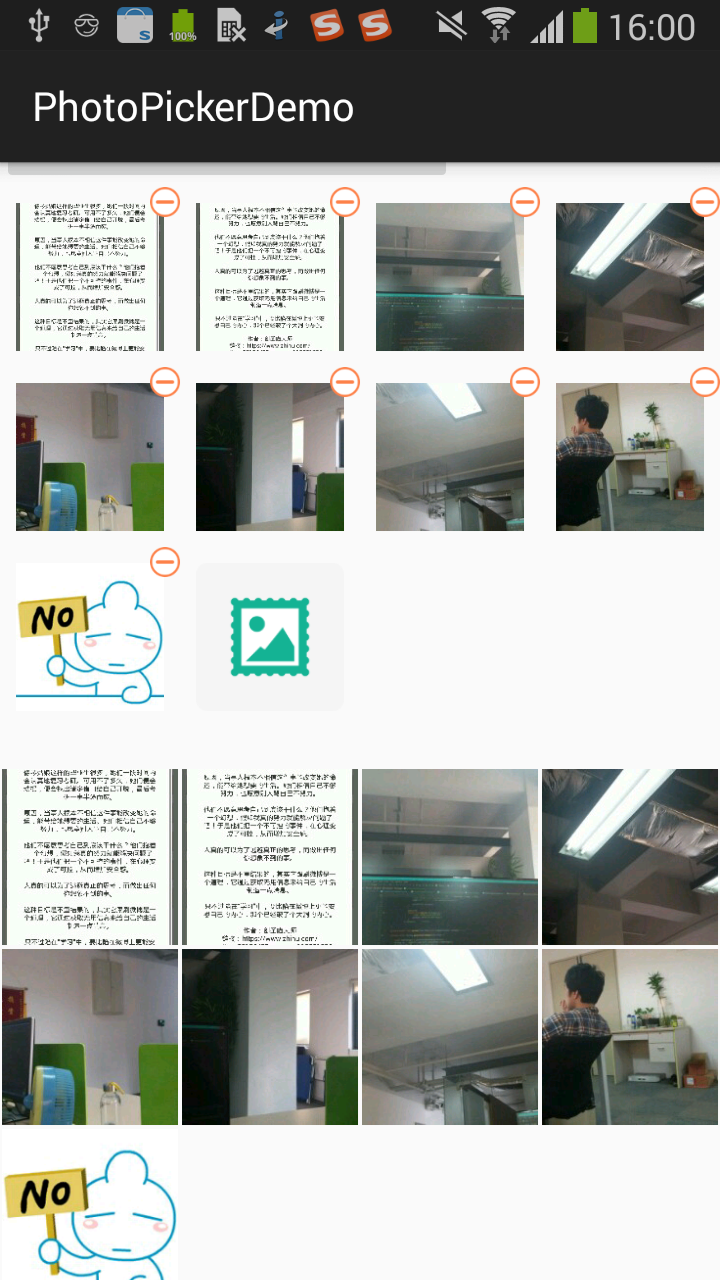
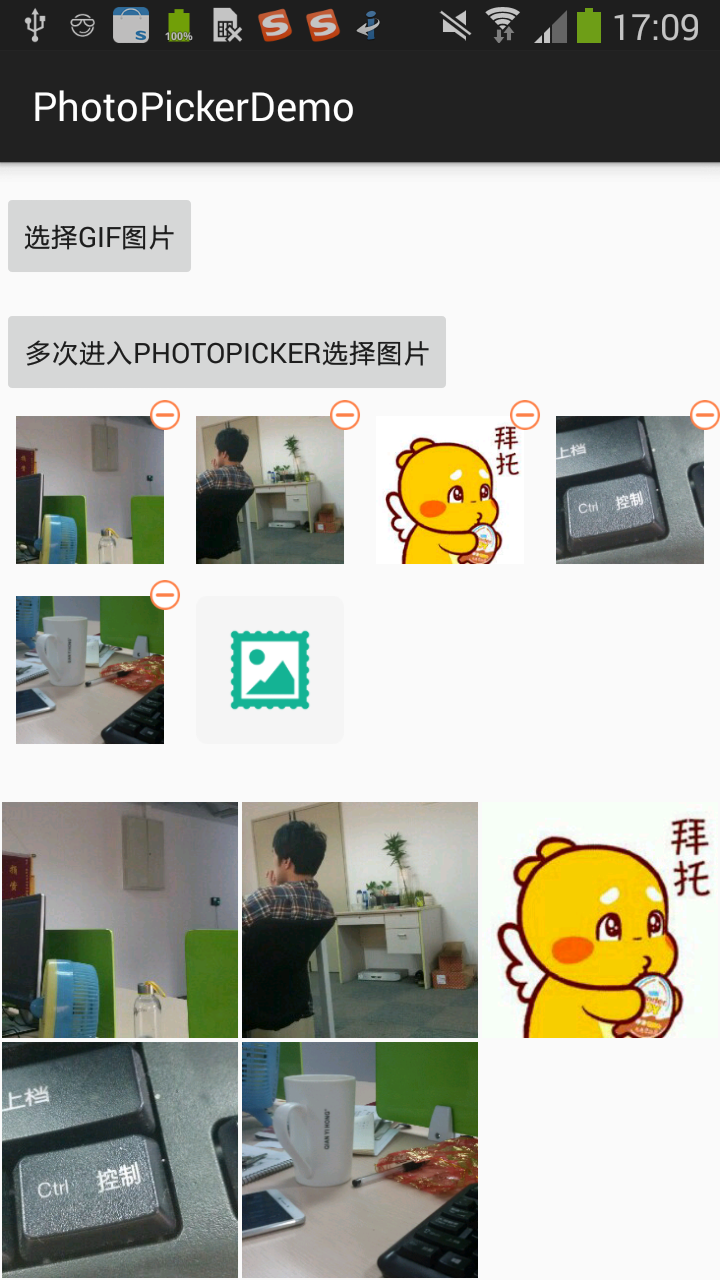
bug fix and change showview to 3 column

diff --git a/PhotoPicker/src/main/java/me/iwf/photopicker/widget/PhotoAdapter.java b/PhotoPicker/src/main/java/me/iwf/photopicker/widget/PhotoAdapter.java
@@ -116,6 +116,7 @@ public class PhotoAdapter extends RecyclerView.Adapter<PhotoAdapter.PhotoViewHol
                 .load(uri)
                 .centerCrop()
                 .thumbnail(0.1f)
+               // .bitmapTransform(new RoundedCornersTransformation(mContext,6,0))
                 .placeholder(R.drawable.__picker_default_weixin)
                 .error(R.drawable.__picker_ic_broken_image_black_48dp)
                 .into(holder.ivPhoto);
@@ -149,6 +150,7 @@ public class PhotoAdapter extends RecyclerView.Adapter<PhotoAdapter.PhotoViewHol
               .load(photoPaths.get(position))
                       .centerCrop()
                       .thumbnail(0.1f)
+                     // .bitmapTransform(new RoundedCornersTransformation(mContext,4,0))
               .placeholder(R.drawable.__picker_default_weixin)
               .error(R.drawable.__picker_ic_broken_image_black_48dp)
               .into(holder.ivPhoto);

diff --git a/PhotoPicker/src/main/java/me/iwf/photopicker/PhotoPagerActivity.java b/PhotoPicker/src/main/java/me/iwf/photopicker/PhotoPagerActivity.java
@@ -61,8 +61,16 @@ public class PhotoPagerActivity extends AppCompatActivity {
         @Override
         public void onClick(View v) {
           int position = pagerFragment.getViewPager().getCurrentItem();
-          pagerFragment.getPaths().remove(position);
-          pagerFragment.getViewPager().getAdapter().notifyDataSetChanged();
+          if (pagerFragment.getPaths().size() >0){
+            pagerFragment.getPaths().remove(position);
+            pagerFragment.getViewPager().getAdapter().notifyDataSetChanged();
+            if (pagerFragment.getPaths().size() ==0){
+              titlebar.setTitle(getString(R.string.__picker_preview) +" "+getString(R.string.__picker_image_index, 0,
+                      pagerFragment.getPaths().size()));
+            }
+
+          }
+
 
         }
       });

diff --git a/PhotoPicker/src/main/java/me/iwf/photopicker/widget/MultiPickResultView.java b/PhotoPicker/src/main/java/me/iwf/photopicker/widget/MultiPickResultView.java
@@ -84,6 +84,9 @@ public class MultiPickResultView extends FrameLayout {
 
     public void init(Activity context,@MultiPicAction  int action, ArrayList<String> photos){
         this.action = action;
+        if (action == MultiPickResultView.ACTION_ONLY_SHOW){//当只用作显示图片时,一行显示3张
+            recyclerView.setLayoutManager(new StaggeredGridLayoutManager(3, OrientationHelper.VERTICAL));
+        }
 
         selectedPhotos = new ArrayList<>();
 
